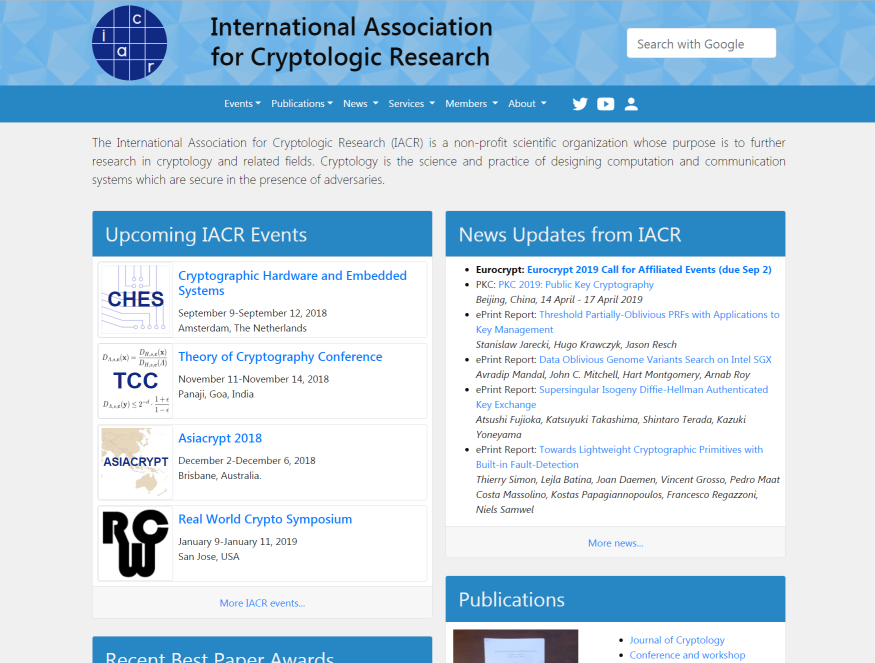
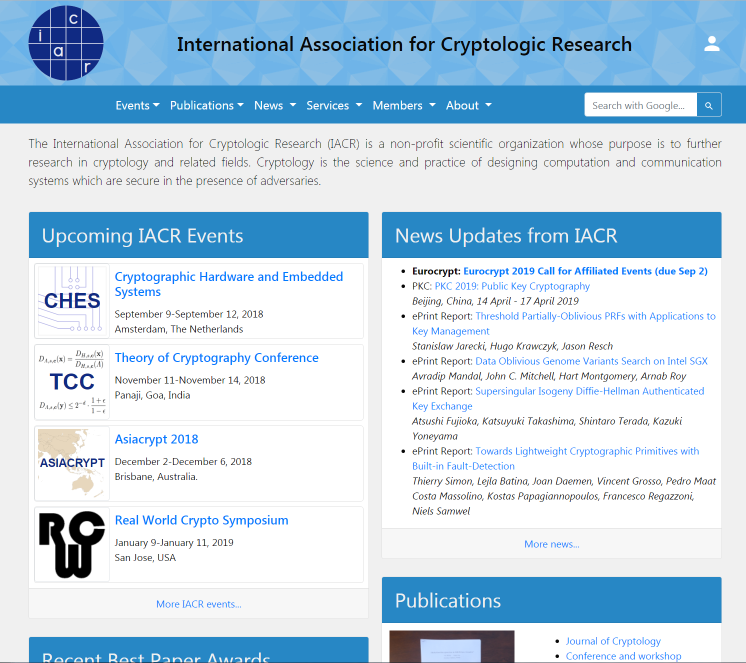
Better jofc page and new screenshot.

diff --git a/kevin4/jofc.html b/kevin4/jofc.html
@@ -28,27 +28,28 @@
         <a class="dropdown-item" href="#" onclick='setTheme("ugly")'>Shades of logo color</a>
       </div>
     </div>
-    <div class="container-fluid default-topbar pb-2" id="topbar">
+    <div class="container-fluid default-topbar" id="topbar">
       <div class="container">
-        <div class="row align-items-center pt-2 d-none d-md-flex">
-          <div class="col-sm-2">
+        <div class="row align-items-center pt-2 d-none d-md-flex justify-content-between">
+          <div class="col-sm-2 pb-2">
             <a href="https://iacr.org/"> 
               <img src="https://www.iacr.org/tools/logo/svg/iacrlogo_small.svg" class="img-fluid iacr-logo" alt="IACR logo" />
             </a>
           </div>
-          <div class="col-sm-7">
-            <h1 class="d-none d-lg-block iacr-name-twolines">International Association<br>for Cryptologic Research</h1>
-            <h1 class="d-lg-none iacr-name-acronym">IACR</h1>
+          <div class="col-sm-auto">
+            <h1 class="d-none d-xl-block iacr-name-oneline">International Association for Cryptologic Research</h1>
+            <h1 class="d-none d-xl-none d-md-block iacr-name-twolines">International Association<br>for Cryptologic Research</h1>
+            <h1 class="d-md-none iacr-name-acronym">IACR</h1>
           </div>
-            <form class="form-inline col-sm-3">
-              <input name="q" class="form-control form-control-lg" type="search" placeholder="Search with Google">
-            </form>
+          <div class="col-sm-1 text-right">
+            <a href="/login" class="login-button text-right" title="Login to IACR"><ion-icon name="person"></ion-icon></a>
+          </div>
         </div>
       </div>
     </div>
     <div id="menubar" class="container-fluid default-menubar">
       <div class="container">
-        <nav id="nav" class="navbar navbar-expand-md navbar-dark bg-transparent px-0">
+        <nav id="nav" class="navbar navbar-expand-lg navbar-dark bg-transparent px-0">
           <button class="navbar-toggler my-2" type="button" data-toggle="collapse" data-target="#navbarCollapse">
             <span class="navbar-toggler-icon"></span>
           </button>
@@ -140,40 +141,41 @@
                   <a class="dropdown-item" href="#">Privacy Policy</a>
                 </div>
               </li>
-              <li class="nav-item social-buttons pt-2 ml-4">
-                <a href="https://twitter.com/IACR_News" class="social"><ion-icon name="logo-twitter" class="ml-2 social-buttons" title="Twitter feed"></ion-icon></a>
-                <a href="https://youtube.com/TheIACR" class="social"><ion-icon name="logo-youtube" class="ml-2 social-buttons" title="YouTube channel"></ion-icon></a>
-                <a href="/login" class="social"><ion-icon name="person" class="ml-2 social-buttons" title="Login to IACR"></ion-icon></a>
-              </li>
             </ul>
-          <div id="social" class="col-sm-auto navbar-text ml-auto">
-          </div>
+            <form class="ml-2 my-auto d-inline w-25">
+              <div class="input-group">
+                <input name="q" type="search" class="form-control border border-right-0" placeholder="Search with Google...">
+                <span class="input-group-append">
+                  <button class="btn btn-outline-secondary border border-left-0 search-button" type="button">
+                    <ion-icon name="search" class="align-middle search-button"></ion-icon>
+                  </button>
+                </span>
+              </div>
+            </form>
           </div>
         </nav>
       </div>
     </div>
     <main class="container mt-3">
       <div id="iacr_content">
-            <h1>Journal of Cryptology</h1>
+        <h1>Journal of Cryptology</h1>
+        <img src="https://iacr.org/jofc/jofc.jpg" style="float:right;margin: 0 0 15px 15px">
+        The <a href="http://www.springerlink.com/content/100359/?MUD=MP"><em>Journal of Cryptology</em></a> 
+        is the official journal of the <a href="http://www.iacr.org">International 
+          Association for Cryptologic Research</a>, and provides a forum for publication of original results in all
+        areas of modern information security.  It started with volume 1 in 1988, and
+        currently consists of four issues per year.  It is published by
+        <a href="http://www.springeronline.com/">Springer</a>.
+        IACR members receive a subscription to the <em>Journal of Cryptology</em>.
+        Subscriptions are available to non-members directly from 
+        <a href="http://www.springeronline.com/">Springer</a> (see below).
 
-<img src="https://iacr.org/jofc/jofc.jpg" style="float:right;margin: 0 0 15px 15px">
-The <a href="http://www.springerlink.com/content/100359/?MUD=MP"><em>Journal of Cryptology</em></a> 
-is the official journal of the <a href="http://www.iacr.org">International 
-Association for Cryptologic
-Research</a>, and provides a forum for publication of original results in all
-areas of modern information security.  It started with volume 1 in 1988, and
-currently consists of four issues per year.  It is published by
-<a href="http://www.springeronline.com/">Springer</a>.
-IACR members receive a subscription to the <em>Journal of Cryptology</em>.
-Subscriptions are available to non-members directly from 
-<a href="http://www.springeronline.com/">Springer</a> (see below).
-
-<p>
-</p><ul>
-<li><a href="http://www.springeronline.com/journal/00145/about">The Journal Home Page at Springer</a>
-<p>
-</p></li><li>We now only accept papers via the <a href="https://www.editorialmanager.com/jcryptology/">JoC Submission web site</a>.
-
+        <p>
+        </p><ul>
+          <li><a href="http://www.springeronline.com/journal/00145/about">The Journal Home Page at Springer</a>
+            <p>
+          </p></li><li>We now only accept papers via the <a href="https://www.editorialmanager.com/jcryptology/">JoC Submission web site</a>.
+            
 </p></li><li>IACR members can 
 <a href="https://www.iacr.org/publications/access.php#joc">access JoC articles</a> for free.  
 
@@ -202,7 +204,6 @@ For other countries, please visit
 
 
     </div>
-    
   </main>
     <footer id="footer" class="small default-footer mt-2">
     <div class="container py-4">
@@ -214,6 +215,11 @@ For other countries, please visit
           <div class="col-md-6">
             <p>The <a href="http://www.iacr.org/">International Association for Cryptologic Research (IACR)</a> is a non-profit scientific organization whose purpose is to further research in cryptology and related fields. Cryptology is the science and practice
               of designing computation and communication systems which are secure in the presence of adversaries.</p>
+            <p class="text-center">
+              <a href="https://twitter.com/IACR_News" class="social"><ion-icon name="logo-twitter" class="ml-2 social-buttons" title="Twitter feed"></ion-icon></a>
+              <a href="https://youtube.com/TheIACR" class="social"><ion-icon name="logo-youtube" class="ml-2 social-buttons" title="YouTube channel"></ion-icon></a>
+            </p>
+
           </div>
 
           <div class="col-md-3 col-sm-8 col-xs-6">
@@ -277,7 +283,7 @@ For other countries, please visit
   <script src="/libs/js/jquery/3.3.1/jquery.min.js"></script>
   <script src="themes.js"></script>
   <script src="bestpapers.js"></script>
-  <script src="autocomplete.min.js"></script>
+  <script src="auto-complete.js"></script>
   <script src="suggest.js"></script>
 </body>
 

diff --git a/index.html b/index.html
@@ -64,7 +64,8 @@
         <div class="card-body">
           <a href="kevin4/">Main page</a> and <a href="kevin4/jofc.html">Journal of Cryptology page</a>
           <ul>
-            <li>search in different spot</li>
+            <li>search with button and autocomplete</li>
+            <li>social buttons moved to footer</li>
             <li>Multiple color schemes</li>
             <li>Restyled conference icons with white background</li>
             <li>Best papers card</li>
